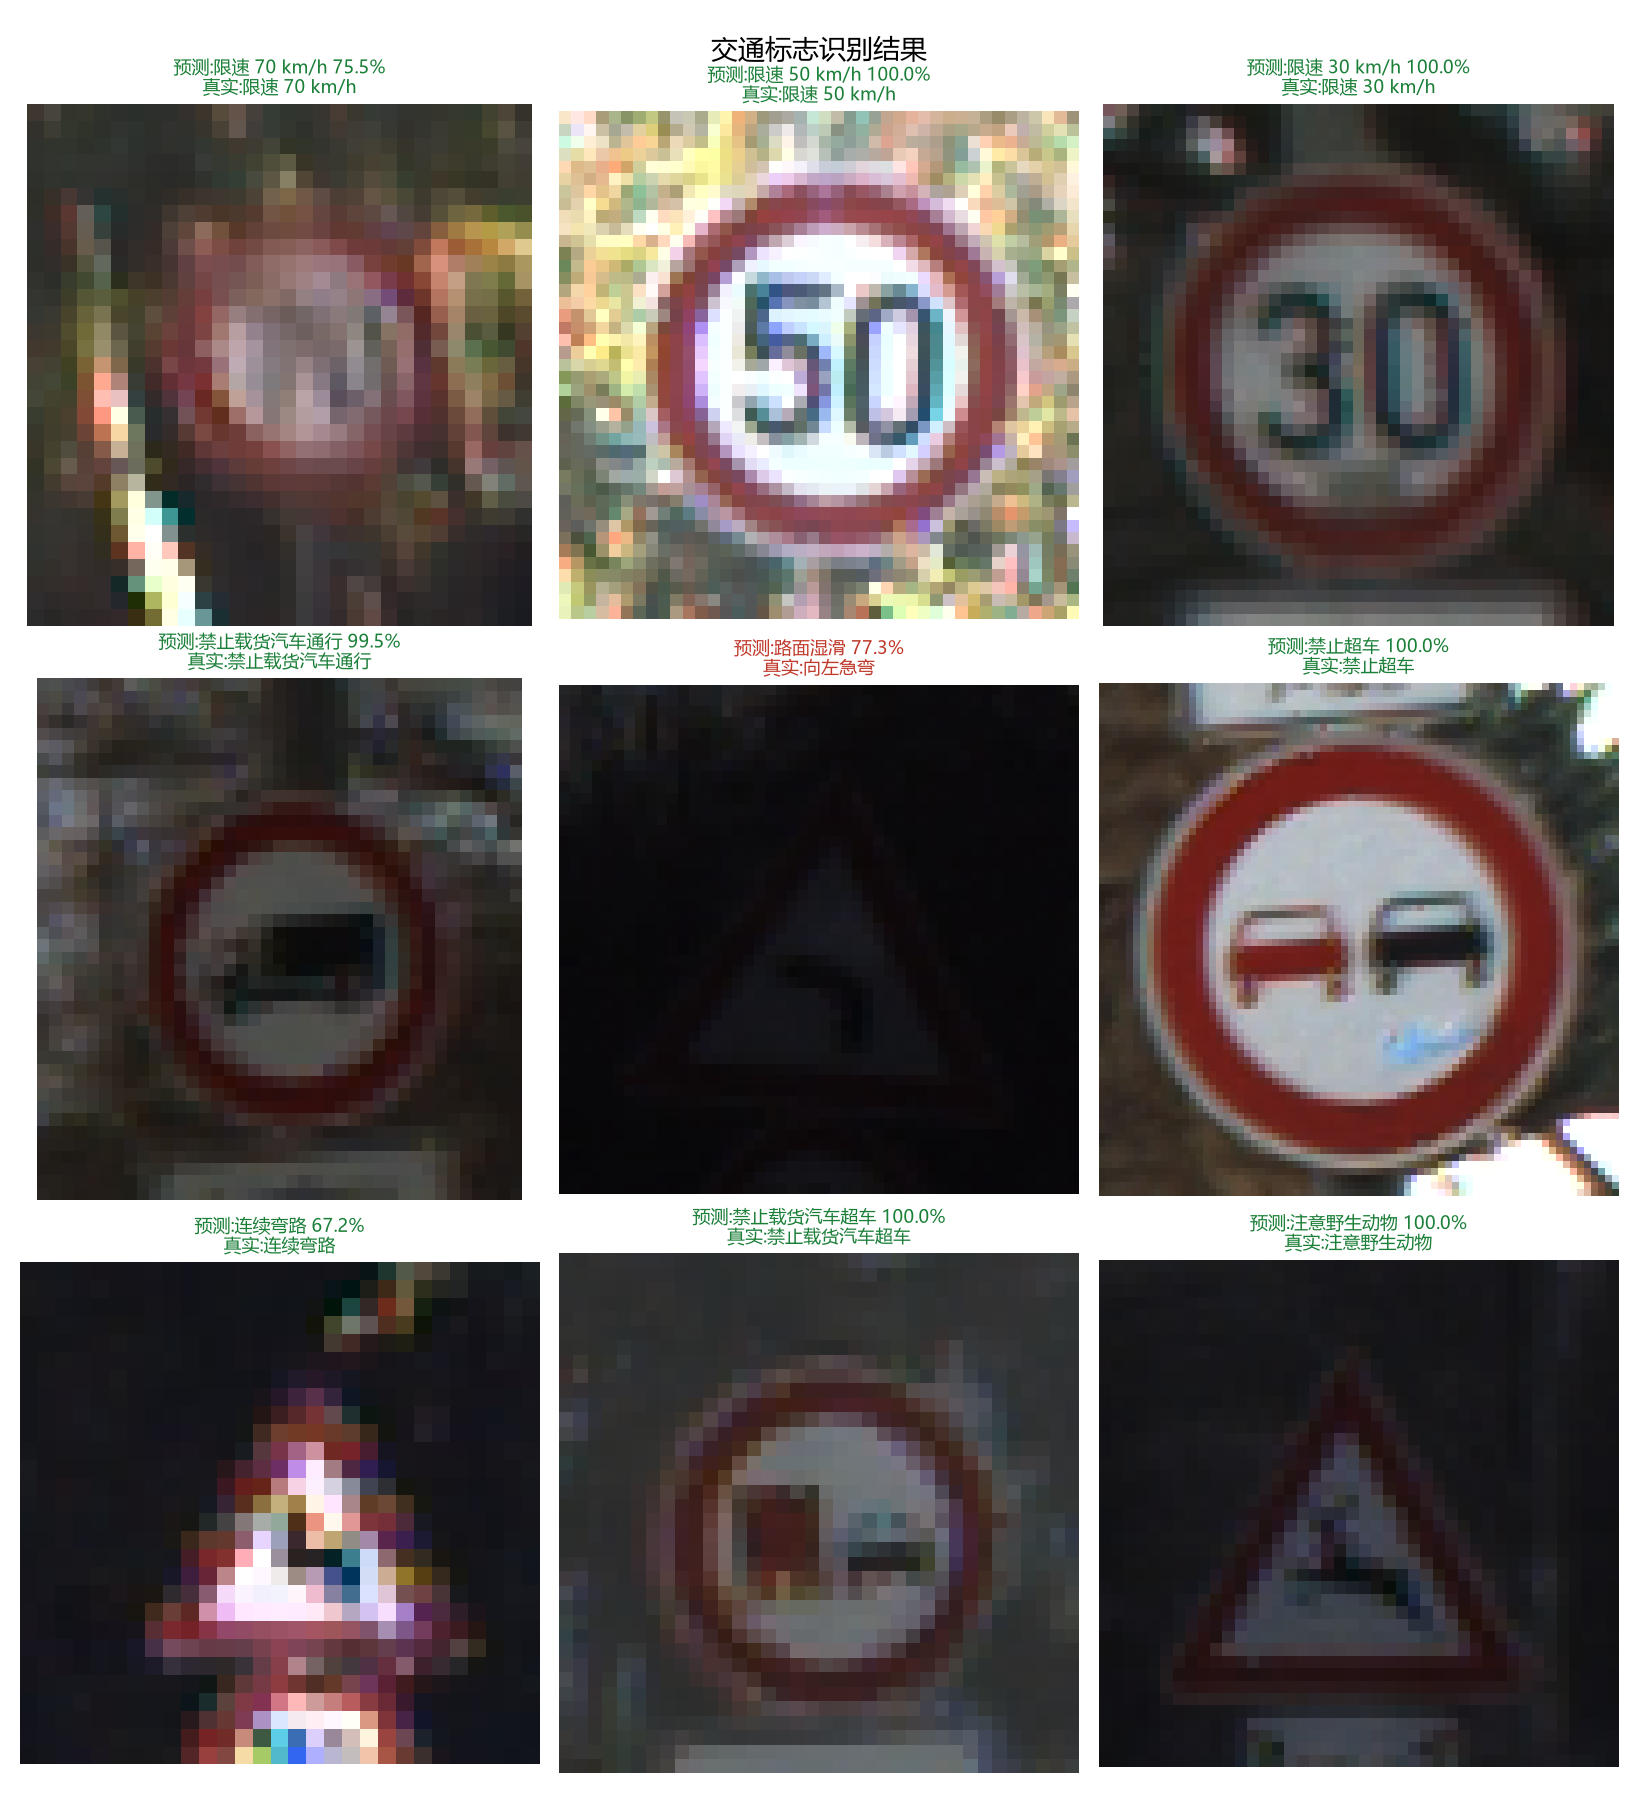
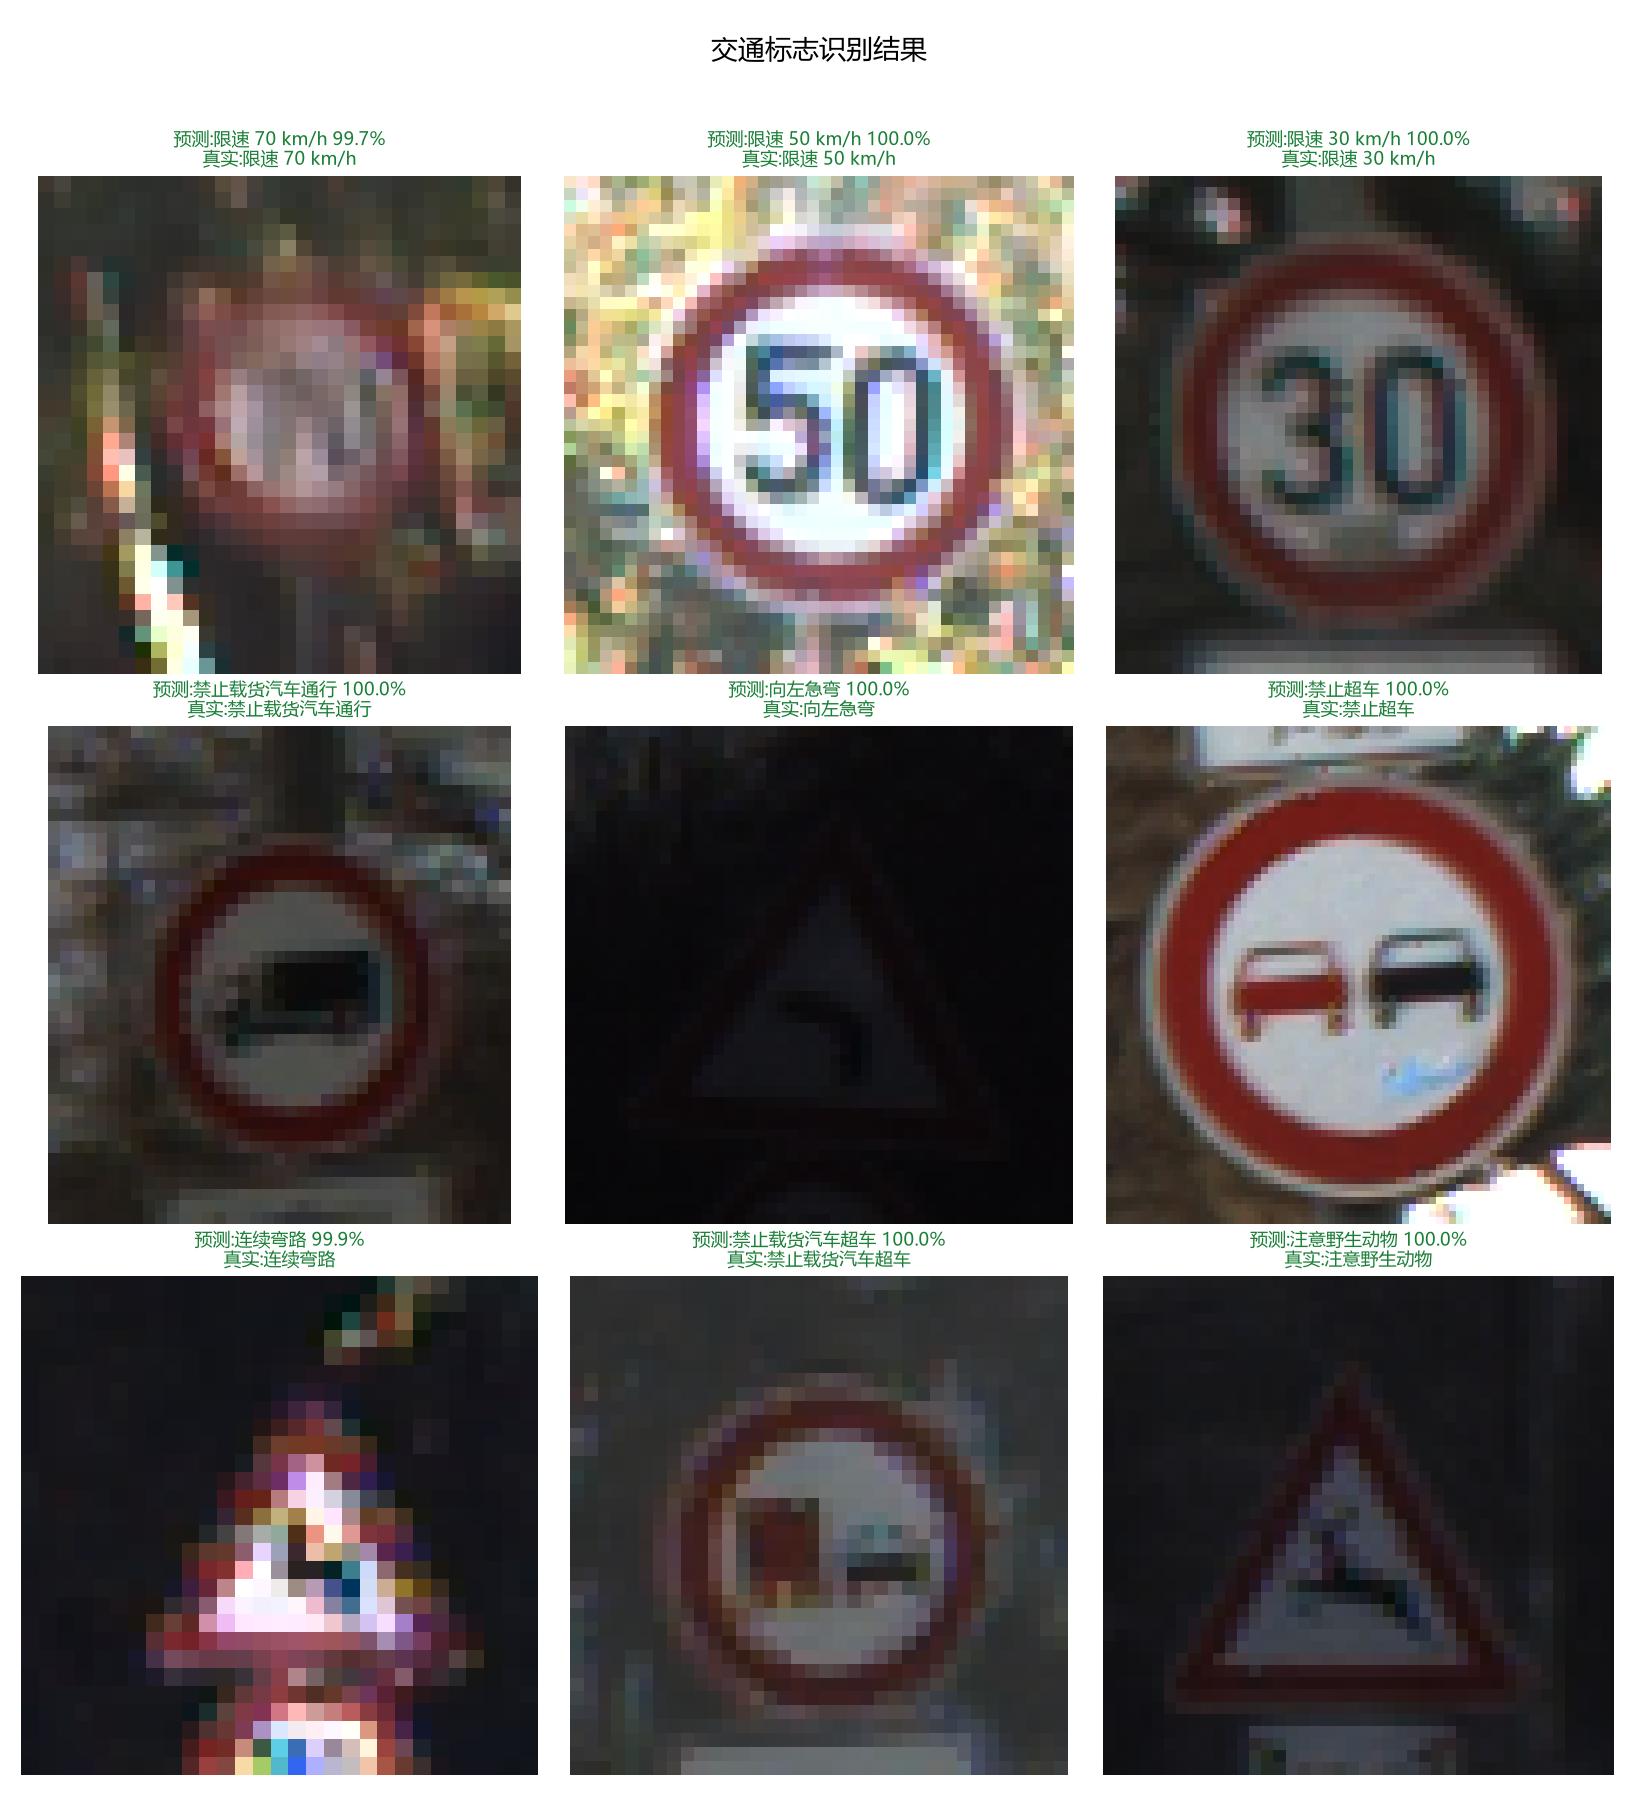
docs: 用最终权重更新推理结果图并同步文档描述
预测图改用最终权重(第 15 轮,验证准确率 100%)重新生成,九张样本全部预测正确;修正文档中基于中途权重图的描述;修复大标题压住图片标题的排版问题。

diff --git a/src/ai_image_classification/predict.py b/src/ai_image_classification/predict.py
@@ -142,7 +142,8 @@ def main() -> None:
         print(f"\n抽样 {labeled} 张,预测正确 {correct} 张,准确率 {correct / labeled * 100:.1f}%")
 
     fig.suptitle("交通标志识别结果", fontsize=15)
-    fig.tight_layout()
+    # 给大标题留出空间,否则它会压住第一行图片的标题
+    fig.tight_layout(rect=(0, 0, 1, 0.96))
     out_path = Path(args.out) if args.out else FIGURE_DIR / "predictions.png"
     fig.savefig(out_path, dpi=130)
     print(f"结果图已保存:{out_path}")

diff --git a/docs/项目说明.md b/docs/项目说明.md
@@ -217,10 +217,12 @@ ResNet-18 配置下参数量约 11.19M。
 
 ![推理结果](figures/predictions.png)
 
-图中 9 张测试样本里错 1 张,且那张本身就是近乎全黑的低质量图片。
-同时可以看到置信度的作用:同样预测正确,"限速 50"是 100%,
-而"限速 70"只有 75.5%——低置信度往往对应容易混淆的样本,
-实际部署时可以据此触发人工复核。
+图中 9 张测试样本全部预测正确,且多数置信度接近 100%;
+终端里还会逐个打印每张图的 top-3 候选与对应概率,
+可以看到模型对错误选项给出的概率通常极低,这本身就是一种可信度提示。
+
+需要说明的是,这 9 张只是随机抽样,九张全对不能当作模型整体水平的证据——
+真正可信的指标是在完整测试集上评估得到的 98.71%。
 
 Grad-CAM 用于检查模型判断时关注的区域是否合理:
 
@@ -230,6 +232,9 @@ Grad-CAM 用于检查模型判断时关注的区域是否合理:
 第 2 张是被错判的样本(真实为"注意危险",预测为"向左急弯"),
 热力图同样落在标志上,说明模型看的位置没错,是这两个三角形警告标志
 在低分辨率下确实难以区分。
+
+这也解释了测试集上剩余约 1.3% 的错误来自哪里:主要是少数几类
+外形相近的三角形警告标志,而不是模型在"乱猜"。
 
 ## 六、创新点
 
